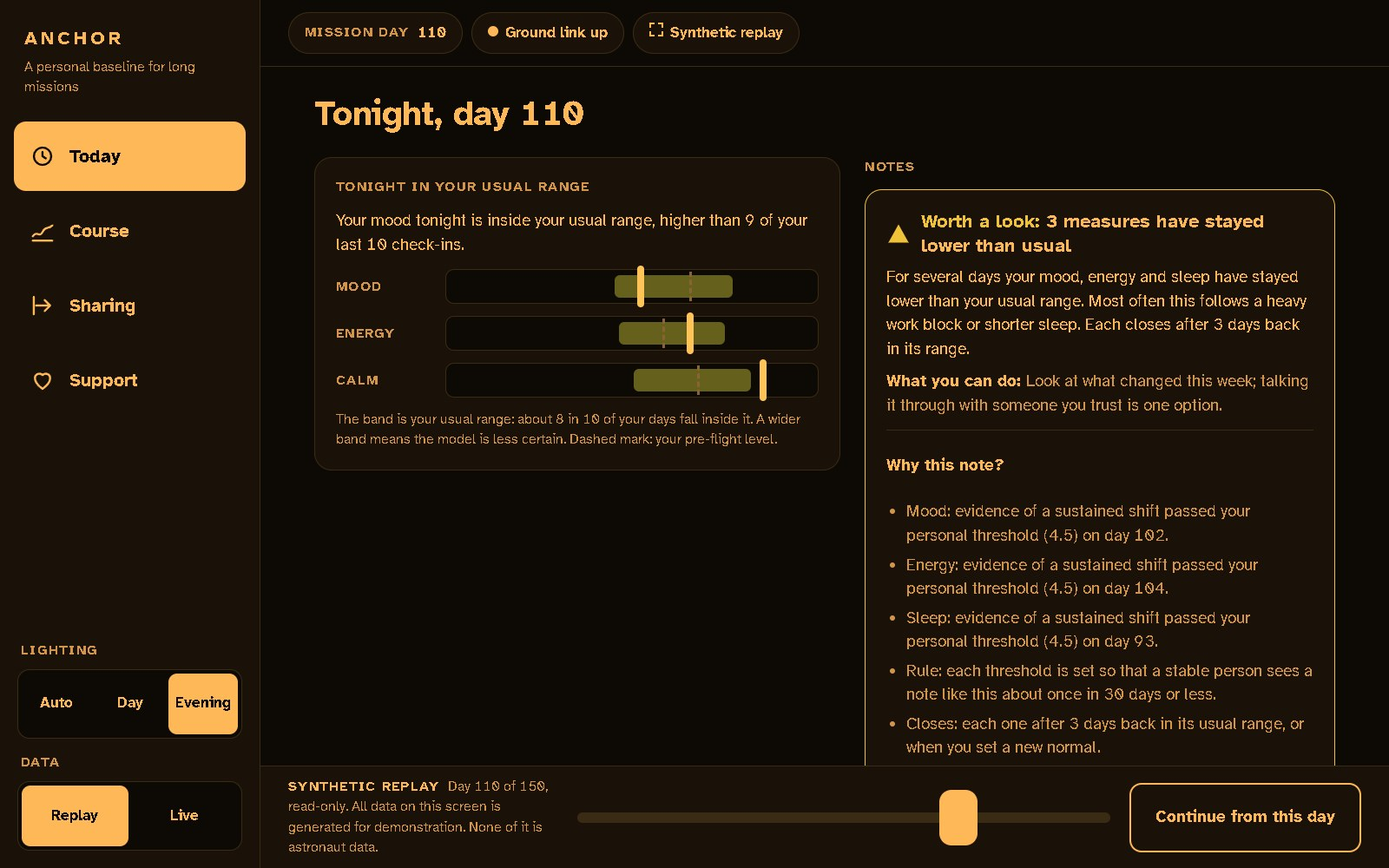
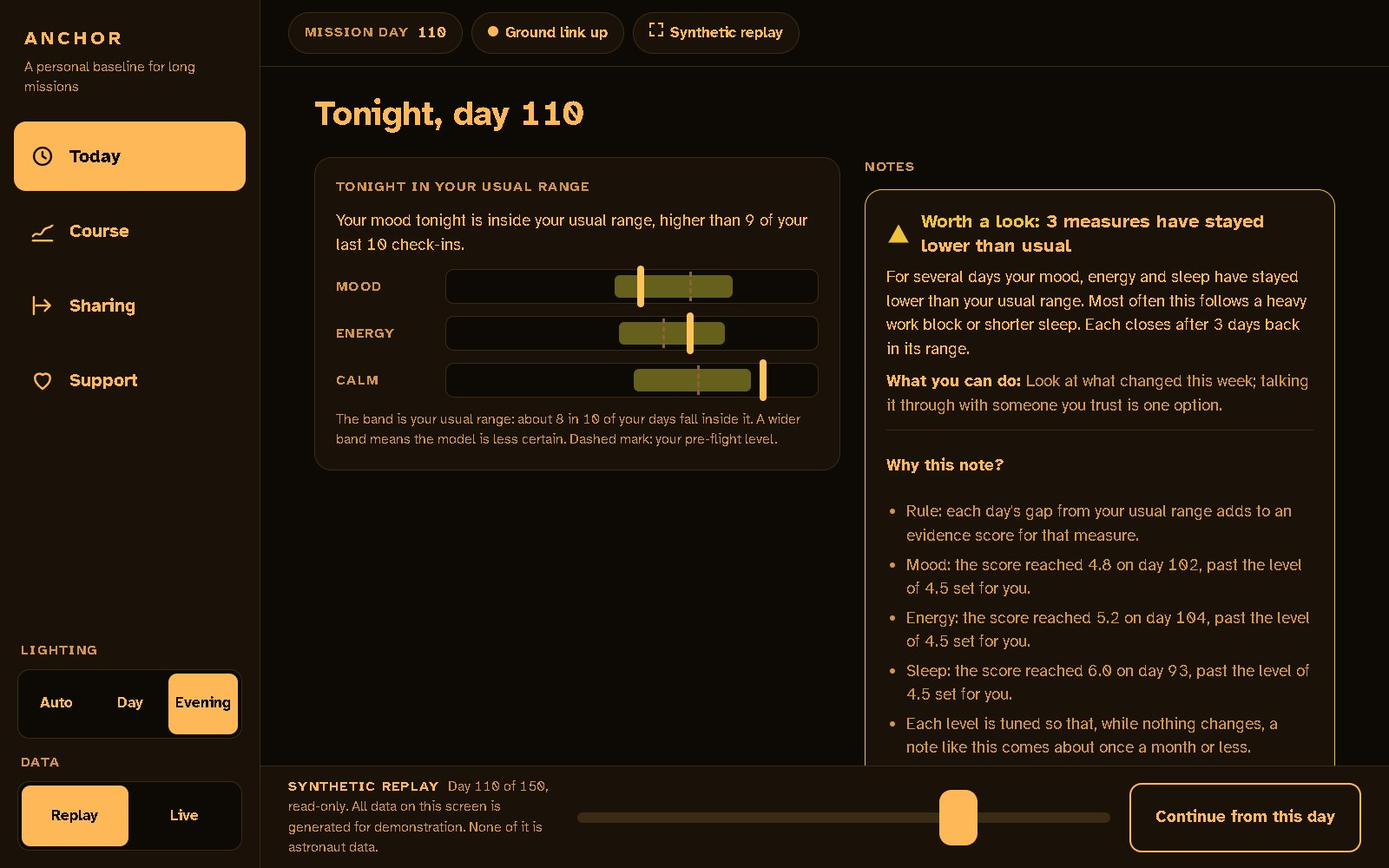
Plain language, measured: readability test, de-jargoned explanations, right time words
- "Why this note?" no longer shows bare thresholds or "1 % level" / "pre-flight
  spreads": it says the evidence score reached X, past the level Y set for you,
  and that the level is tuned to about one note a month while nothing changes.
- Safety and optional-reading messages no longer say "tonight" for morning or
  any-time measurements.
- New audit test: every sentence the astronaut can read in the demo, including
  every explanation line, has a mean Flesch-Kincaid grade <= 6 (now 4.6) and a
  90th percentile <= 9.
- Course: y-axis unit (HIG charts.md); the label band is reserved only when
  there is something to label.
- HRP_MAPPING: immune paraphrase restored after checking it against NASA's page.

Changed region(s): [[0.6562, 0.589, 0.9375, 0.868]]

diff --git a/app/src/views.ts b/app/src/views.ts
@@ -114,32 +114,33 @@ function why(c: Catalogue, st: State, n: Note, s: Slots): Why | undefined {
       return base([
         `Data: your ${lab} reading of ${s.value} on day ${o.day}.`,
         l && i ? `Rule: a line you agreed before flight (${l.op} ${fmt(c, i, l.limit)}). It does not depend on your usual range.` : "Rule: a line you agreed before flight.",
-        "Check: two independently written safety checks evaluate every value; if they ever disagree, the value is treated as unconfirmed.",
+        "Check: two separately written safety programs test every value. If they ever disagree, the value is marked unconfirmed.",
       ]);
     }
     case "SafetyCheckFailed":
-      return base(["Rule: two independently written safety checks evaluate every value.", "When they disagree, the value is treated as unconfirmed and, outside the optional questions, shared as such."], "support");
+      return base(["Rule: two separately written safety programs test every value.", "When they disagree, the value is marked unconfirmed and, outside the optional questions, shared as such."], "support");
     case "Alarm": {
       const i = st.indicators.get(o.indicator);
       const days = i ? i.stats.filter((d) => d.day > o.day - 14 && d.day <= o.day).length : 0;
       return base([
         `Data: your daily ${lab} on ${days} of the 14 days up to day ${o.day}, each compared with your usual range at the time.`,
-        `Rule: evidence of a sustained shift built up past your personal threshold (${o.h.toFixed(1)}). The threshold is set so that a stable person sees a note like this about once in 30 days or less.`,
+        `Rule: each day's gap from your usual range adds to an evidence score. It reached ${o.statistic.toFixed(1)} on day ${o.day}, past the level of ${o.h.toFixed(1)} set for you.`,
+        "That level is tuned so that, while nothing changes, a note like this comes about once a month or less.",
         "Closes: after 3 days back in your usual range, or when you set a new normal.",
       ]);
     }
     case "AlarmCleared":
-      return base(["Rule: the evidence returned to zero and stayed there for 3 days."]);
+      return base(["Rule: the evidence score fell back to zero and stayed there for 3 days."]);
     case "DriftPrompt":
-      return base([`Data: your ${lab} over the last ${o.n} days.`, "Rule: the median day-to-day trend is clear at the 1 % level after allowing for carry-over from one day to the next.", "A drift is a question for you, not a finding."]);
+      return base([`Data: your ${lab} over the last ${o.n} days.`, "Rule: the trend is steady enough that chance alone would produce it less than once in 100 times, even allowing for each day resembling the one before.", "A drift is a question for you, not a finding."]);
     case "AnchorRunPrompt":
-      return base(["Rule: your average over the last 14 days sits more than one pre-flight spread away from your pre-flight level.", "Setting a new normal is your choice and can be undone."]);
+      return base(["Rule: your average over the last 14 days is further from your pre-flight level than your usual day-to-day variation before flight.", "Setting a new normal is your choice and can be undone."]);
     case "MissingnessAlarm":
       return base(["Rule: the share of days without a check-in rose above your own usual rate.", "Days you tagged as heavy workload are not counted."], "support");
     case "OfferExtraSample":
-      return base(["Rule: evidence passed half of your threshold today, and for you a second reading adds enough to be worth asking."]);
+      return base(["Rule: your evidence score passed half of your level today, and for you a second reading adds enough to be worth asking."]);
     case "Reanchored":
-      return base(["Rule: a new normal can be set once a change has lasted 14 days, at most once every 30 days, and only within two pre-flight spreads of your pre-flight level.", "It is recorded in your log and can be undone."]);
+      return base(["Rule: a new normal can be set once a change has lasted 14 days, at most once every 30 days, and only within twice your usual pre-flight variation.", "It is recorded in your log and can be undone."]);
     case "PrivateSupport":
       return base(["Rule: any yes offers your plan and two ways to reach a person.", "Your answers stay on this tablet unless you agreed otherwise before flight."], "crew");
     default:
@@ -149,13 +150,14 @@ function why(c: Catalogue, st: State, n: Note, s: Slots): Why | undefined {
 
 // ---------- Today ----------
 
-function grouped(c: Catalogue, alarms: { i: Indicator; m: Msg; h: number }[]): Msg {
+function grouped(c: Catalogue, alarms: { i: Indicator; m: Msg; h: number; stat: number }[]): Msg {
   const m = c.group(alarms.map((a) => ({ ind: a.i.key, since: a.i.alarmDay!, dir: a.i.dir })));
   // Every NASA research area the grouped measures belong to, each once.
   const areas = [...new Map(alarms.map((a) => c.area[a.i.key]).filter((a) => a !== undefined).map((a) => [a.url, a])).values()];
   const lines = [
-    ...alarms.map((a) => `${cap(label(c, a.i.key))}: evidence of a sustained shift passed your personal threshold (${a.h.toFixed(1)}) on day ${a.i.alarmDay}.`),
-    "Rule: each threshold is set so that a stable person sees a note like this about once in 30 days or less.",
+    "Rule: each day's gap from your usual range adds to an evidence score for that measure.",
+    ...alarms.map((a) => `${cap(label(c, a.i.key))}: the score reached ${a.stat.toFixed(1)} on day ${a.i.alarmDay}, past the level of ${a.h.toFixed(1)} set for you.`),
+    "Each level is tuned so that, while nothing changes, a note like this comes about once a month or less.",
     "Closes: each one after 3 days back in its usual range, or when you set a new normal.",
   ];
   const [area, ...also] = areas;
@@ -258,12 +260,12 @@ export function today(x: Ctx): HTMLElement {
   }
   // Open states first (one note per episode), then this day's notes.
   const open: Msg[] = [];
-  const alarms: { i: Indicator; m: Msg; h: number }[] = [];
+  const alarms: { i: Indicator; m: Msg; h: number; stat: number }[] = [];
   for (const i of st.indicators.values()) {
     if (i.alarmDay === null) continue;
     const n = [...st.notes].reverse().find((z) => z.out.t === "Alarm" && "indicator" in z.out && z.out.indicator === i.key);
     const m = n && message(c, st, n);
-    if (m && n.out.t === "Alarm") alarms.push({ i, m, h: n.out.h });
+    if (m && n.out.t === "Alarm") alarms.push({ i, m, h: n.out.h, stat: n.out.statistic });
   }
   if (alarms.length === 1) open.push({ ...alarms[0]!.m, title: `${alarms[0]!.m.title} (since day ${alarms[0]!.i.alarmDay})` });
   else if (alarms.length > 1) open.push(grouped(c, alarms));
@@ -396,7 +398,9 @@ export function episodes(st: State, key: string, upto: number): { from: number; 
 
 function corridorChart(c: Catalogue, st: State, i: Indicator, g: Geo): SVGElement {
   // Top band: episode boxes (y 6-32), two label lanes (y 54, 76), the hinge-label row (y 88-114), then the plot.
-  const H = 440, top = 122, bottom = H - 30;
+  // The label band is reserved only when there is something to label; otherwise the plot takes the space.
+  const labelled = episodes(st, i.key, g.upto).length > 0 || i.hinges.some((hg) => hg.day <= g.upto);
+  const H = 440, top = labelled ? 122 : 48, bottom = H - 30;
   const pts = i.stats.map((d) => ({ day: d.day, y: statShown(i, d.y), lo: statShown(i, d.lo), hi: statShown(i, d.hi), a: statShown(i, d.anchor) }));
   const line = st.table?.lines.find((l) => l.indicator === i.key && !l.high);
   const limit = line ? shown(i, line.limit) : null;
@@ -414,6 +418,9 @@ function corridorChart(c: Catalogue, st: State, i: Indicator, g: Geo): SVGElemen
     svg.append(s("line", { x1: g.padL, x2: g.W - g.padR, y1: y(t), y2: y(t), class: "contour" }));
     svg.append(s("text", { x: g.padL - 10, y: y(t) + 6, class: "axis", "text-anchor": "end" }, `${+t.toFixed(2)}`));
   }
+  // The axis says what its numbers are (HIG charts.md: describe units where the chart can show them).
+  const unit = i.slider ? "0–100" : (c.indicator[i.key]?.unit ?? "");
+  if (unit) svg.append(s("text", { x: g.padL - 10, y: top - 14, class: "axis axis--unit", "text-anchor": "end" }, unit));
   // Sustained-change episodes: a caution bar over the days they cover, and one label per episode,
   // starting at its triangle (shape + words, R2). Two label lanes keep neighbours apart.
   const laneEnd = [-Infinity, -Infinity];

diff --git a/app/dist/app/src/views.js b/app/dist/app/src/views.js
@@ -75,32 +75,33 @@ function why(c, st, n, s) {
             return base([
                 `Data: your ${lab} reading of ${s.value} on day ${o.day}.`,
                 l && i ? `Rule: a line you agreed before flight (${l.op} ${fmt(c, i, l.limit)}). It does not depend on your usual range.` : "Rule: a line you agreed before flight.",
-                "Check: two independently written safety checks evaluate every value; if they ever disagree, the value is treated as unconfirmed.",
+                "Check: two separately written safety programs test every value. If they ever disagree, the value is marked unconfirmed.",
             ]);
         }
         case "SafetyCheckFailed":
-            return base(["Rule: two independently written safety checks evaluate every value.", "When they disagree, the value is treated as unconfirmed and, outside the optional questions, shared as such."], "support");
+            return base(["Rule: two separately written safety programs test every value.", "When they disagree, the value is marked unconfirmed and, outside the optional questions, shared as such."], "support");
         case "Alarm": {
             const i = st.indicators.get(o.indicator);
             const days = i ? i.stats.filter((d) => d.day > o.day - 14 && d.day <= o.day).length : 0;
             return base([
                 `Data: your daily ${lab} on ${days} of the 14 days up to day ${o.day}, each compared with your usual range at the time.`,
-                `Rule: evidence of a sustained shift built up past your personal threshold (${o.h.toFixed(1)}). The threshold is set so that a stable person sees a note like this about once in 30 days or less.`,
+                `Rule: each day's gap from your usual range adds to an evidence score. It reached ${o.statistic.toFixed(1)} on day ${o.day}, past the level of ${o.h.toFixed(1)} set for you.`,
+                "That level is tuned so that, while nothing changes, a note like this comes about once a month or less.",
                 "Closes: after 3 days back in your usual range, or when you set a new normal.",
             ]);
         }
         case "AlarmCleared":
-            return base(["Rule: the evidence returned to zero and stayed there for 3 days."]);
+            return base(["Rule: the evidence score fell back to zero and stayed there for 3 days."]);
         case "DriftPrompt":
-            return base([`Data: your ${lab} over the last ${o.n} days.`, "Rule: the median day-to-day trend is clear at the 1 % level after allowing for carry-over from one day to the next.", "A drift is a question for you, not a finding."]);
+            return base([`Data: your ${lab} over the last ${o.n} days.`, "Rule: the trend is steady enough that chance alone would produce it less than once in 100 times, even allowing for each day resembling the one before.", "A drift is a question for you, not a finding."]);
         case "AnchorRunPrompt":
-            return base(["Rule: your average over the last 14 days sits more than one pre-flight spread away from your pre-flight level.", "Setting a new normal is your choice and can be undone."]);
+            return base(["Rule: your average over the last 14 days is further from your pre-flight level than your usual day-to-day variation before flight.", "Setting a new normal is your choice and can be undone."]);
         case "MissingnessAlarm":
             return base(["Rule: the share of days without a check-in rose above your own usual rate.", "Days you tagged as heavy workload are not counted."], "support");
         case "OfferExtraSample":
-            return base(["Rule: evidence passed half of your threshold today, and for you a second reading adds enough to be worth asking."]);
+            return base(["Rule: your evidence score passed half of your level today, and for you a second reading adds enough to be worth asking."]);
         case "Reanchored":
-            return base(["Rule: a new normal can be set once a change has lasted 14 days, at most once every 30 days, and only within two pre-flight spreads of your pre-flight level.", "It is recorded in your log and can be undone."]);
+            return base(["Rule: a new normal can be set once a change has lasted 14 days, at most once every 30 days, and only within twice your usual pre-flight variation.", "It is recorded in your log and can be undone."]);
         case "PrivateSupport":
             return base(["Rule: any yes offers your plan and two ways to reach a person.", "Your answers stay on this tablet unless you agreed otherwise before flight."], "crew");
         default:
@@ -113,8 +114,9 @@ function grouped(c, alarms) {
     // Every NASA research area the grouped measures belong to, each once.
     const areas = [...new Map(alarms.map((a) => c.area[a.i.key]).filter((a) => a !== undefined).map((a) => [a.url, a])).values()];
     const lines = [
-        ...alarms.map((a) => `${cap(label(c, a.i.key))}: evidence of a sustained shift passed your personal threshold (${a.h.toFixed(1)}) on day ${a.i.alarmDay}.`),
-        "Rule: each threshold is set so that a stable person sees a note like this about once in 30 days or less.",
+        "Rule: each day's gap from your usual range adds to an evidence score for that measure.",
+        ...alarms.map((a) => `${cap(label(c, a.i.key))}: the score reached ${a.stat.toFixed(1)} on day ${a.i.alarmDay}, past the level of ${a.h.toFixed(1)} set for you.`),
+        "Each level is tuned so that, while nothing changes, a note like this comes about once a month or less.",
         "Closes: each one after 3 days back in its usual range, or when you set a new normal.",
     ];
     const [area, ...also] = areas;
@@ -208,7 +210,7 @@ export function today(x) {
         const n = [...st.notes].reverse().find((z) => z.out.t === "Alarm" && "indicator" in z.out && z.out.indicator === i.key);
         const m = n && message(c, st, n);
         if (m && n.out.t === "Alarm")
-            alarms.push({ i, m, h: n.out.h });
+            alarms.push({ i, m, h: n.out.h, stat: n.out.statistic });
     }
     if (alarms.length === 1)
         open.push({ ...alarms[0].m, title: `${alarms[0].m.title} (since day ${alarms[0].i.alarmDay})` });
@@ -310,7 +312,9 @@ export function episodes(st, key, upto) {
 }
 function corridorChart(c, st, i, g) {
     // Top band: episode boxes (y 6-32), two label lanes (y 54, 76), the hinge-label row (y 88-114), then the plot.
-    const H = 440, top = 122, bottom = H - 30;
+    // The label band is reserved only when there is something to label; otherwise the plot takes the space.
+    const labelled = episodes(st, i.key, g.upto).length > 0 || i.hinges.some((hg) => hg.day <= g.upto);
+    const H = 440, top = labelled ? 122 : 48, bottom = H - 30;
     const pts = i.stats.map((d) => ({ day: d.day, y: statShown(i, d.y), lo: statShown(i, d.lo), hi: statShown(i, d.hi), a: statShown(i, d.anchor) }));
     const line = st.table?.lines.find((l) => l.indicator === i.key && !l.high);
     const limit = line ? shown(i, line.limit) : null;
@@ -329,6 +333,10 @@ function corridorChart(c, st, i, g) {
         svg.append(s("line", { x1: g.padL, x2: g.W - g.padR, y1: y(t), y2: y(t), class: "contour" }));
         svg.append(s("text", { x: g.padL - 10, y: y(t) + 6, class: "axis", "text-anchor": "end" }, `${+t.toFixed(2)}`));
     }
+    // The axis says what its numbers are (HIG charts.md: describe units where the chart can show them).
+    const unit = i.slider ? "0–100" : (c.indicator[i.key]?.unit ?? "");
+    if (unit)
+        svg.append(s("text", { x: g.padL - 10, y: top - 14, class: "axis axis--unit", "text-anchor": "end" }, unit));
     // Sustained-change episodes: a caution bar over the days they cover, and one label per episode,
     // starting at its triangle (shape + words, R2). Two label lanes keep neighbours apart.
     const laneEnd = [-Infinity, -Infinity];

diff --git a/app/dist/app/src/catalogue.js b/app/dist/app/src/catalogue.js
@@ -46,7 +46,7 @@ const UI_EN = {
     vitalsHint: "Measured with the station's medical kit. Set the ones you took today; each is checked against your safety lines as soon as it is saved.",
     lastReading: "Last reading: tap the value to keep it",
     saveVitals: "Save measurements",
-    kernelAgree: "Independent safety check: both versions agreed on every value shown",
+    kernelAgree: "Safety check: two separately written versions agreed on every value",
 };
 const cap = (x) => `${x[0].toUpperCase()}${x.slice(1)}`;
 const label = (s) => en.indicator[s.ind]?.label ?? s.ind.replace(/_/g, " ");
@@ -170,7 +170,7 @@ export const en = {
             : {
                 register: "warning",
                 title: `${label(s)} past your safety line`,
-                text: `Tonight's ${label(s)} of ${s.value} is past the line you agreed before flight. ${who(s.to)[0].toUpperCase()}${who(s.to).slice(1)} has the reading.`,
+                text: `Your ${label(s)} reading of ${s.value} is past the line you agreed before flight. ${who(s.to)[0].toUpperCase()}${who(s.to).slice(1)} has the reading.`,
                 action: `measure your ${label(s)} again now`,
                 owner: "You",
             },
@@ -199,7 +199,7 @@ export const en = {
         OfferExtraSample: (s) => ({
             register: "advisory",
             title: "One more reading, if you like",
-            text: `One more ${label(s)} reading later today would make tonight's picture clearer. It is optional.`,
+            text: `One more ${label(s)} reading later today would make today's picture clearer. It is optional.`,
             action: `add a short ${label(s)} reading later today, or let it go`,
             owner: "You",
         }),
@@ -264,8 +264,8 @@ export const en = {
         }),
         CompanionError: () => ({
             register: "caution",
-            title: "Part of tonight's analysis did not run",
-            text: "Part of tonight's analysis could not run, so no new note was made. Your entries are stored safely, and the safety check ran as usual.",
+            title: "Part of today's analysis did not run",
+            text: "Part of today's analysis could not run, so no new note was made. Your entries are stored safely, and the safety check ran as usual.",
             action: "look at the technical record when convenient",
             owner: "The CMO on board",
         }),

diff --git a/app/src/catalogue.ts b/app/src/catalogue.ts
@@ -69,7 +69,7 @@ const UI_EN = {
   vitalsHint: "Measured with the station's medical kit. Set the ones you took today; each is checked against your safety lines as soon as it is saved.",
   lastReading: "Last reading: tap the value to keep it",
   saveVitals: "Save measurements",
-  kernelAgree: "Independent safety check: both versions agreed on every value shown",
+  kernelAgree: "Safety check: two separately written versions agreed on every value",
 };
 
 type Template = (s: Slots) => Msg;
@@ -223,7 +223,7 @@ export const en: Catalogue = {
         : {
             register: "warning",
             title: `${label(s)} past your safety line`,
-            text: `Tonight's ${label(s)} of ${s.value} is past the line you agreed before flight. ${who(s.to)[0]!.toUpperCase()}${who(s.to).slice(1)} has the reading.`,
+            text: `Your ${label(s)} reading of ${s.value} is past the line you agreed before flight. ${who(s.to)[0]!.toUpperCase()}${who(s.to).slice(1)} has the reading.`,
             action: `measure your ${label(s)} again now`,
             owner: "You",
           },
@@ -253,7 +253,7 @@ export const en: Catalogue = {
     OfferExtraSample: (s) => ({
       register: "advisory",
       title: "One more reading, if you like",
-      text: `One more ${label(s)} reading later today would make tonight's picture clearer. It is optional.`,
+      text: `One more ${label(s)} reading later today would make today's picture clearer. It is optional.`,
       action: `add a short ${label(s)} reading later today, or let it go`,
       owner: "You",
     }),
@@ -318,8 +318,8 @@ export const en: Catalogue = {
     }),
     CompanionError: () => ({
       register: "caution",
-      title: "Part of tonight's analysis did not run",
-      text: "Part of tonight's analysis could not run, so no new note was made. Your entries are stored safely, and the safety check ran as usual.",
+      title: "Part of today's analysis did not run",
+      text: "Part of today's analysis could not run, so no new note was made. Your entries are stored safely, and the safety check ran as usual.",
       action: "look at the technical record when convenient",
       owner: "The CMO on board",
     }),

diff --git a/app/test/audit.test.ts b/app/test/audit.test.ts
@@ -144,3 +144,30 @@ test("the prebuilt demo events equal a fresh engine run (I5; scripts/build-demo.
   assert.ok(r.ok);
   assert.deepEqual(pre, JSON.parse(JSON.stringify(r.events)));
 });
+
+/** Plain language (HIG writing; Flesch–Kincaid, app/test/readability.ts): everything the astronaut
+ *  reads in the demo, including every "Why this note?" line, stays easy to read. */
+test("astronaut-facing text stays plain: mean reading grade <= 6, 90th percentile <= 9", async () => {
+  const { catalogues: cats } = await import("../src/catalogue.ts");
+  const { project } = await import("../src/model.ts");
+  const { message } = await import("../src/views.ts");
+  const { grade } = await import("./readability.ts");
+  const c = cats.en!;
+  const ev = JSON.parse(readFileSync(new URL("../demo-events.json", import.meta.url), "utf8"));
+  const seen = new Set<string>();
+  const add = (s: string) => { for (const x of s.split(/(?<=[.;])\s+/)) if (x.split(" ").length > 3) seen.add(x); };
+  for (const day of [30, 60, 80, 102, 110, 122, 125, 131, 150]) {
+    const st = project(ev.slice(0, prefixEnd(ev, day)));
+    for (const n of st.notes) {
+      const m = message(c, st, n);
+      if (m) [m.text, m.action, ...(m.why?.lines ?? [])].forEach(add);
+    }
+  }
+  Object.values(c.ui).forEach(add);
+  Object.values(c.about).forEach((a) => [a.how, a.space, a.helps].forEach(add));
+  const g = [...seen].map(grade).sort((a, b) => a - b);
+  const mean = g.reduce((s, x) => s + x, 0) / g.length;
+  assert.ok(g.length > 120, `measured ${g.length}`);
+  assert.ok(mean <= 6, `mean grade ${mean.toFixed(1)}`);
+  assert.ok(g[Math.floor(g.length * 0.9)]! <= 9, `90th percentile ${g[Math.floor(g.length * 0.9)]!.toFixed(1)}`);
+});

diff --git a/app/test/readability.ts b/app/test/readability.ts
@@ -1,0 +1,18 @@
+// Flesch–Kincaid grade level (Kincaid et al. 1975), used by the audit tests to keep astronaut-facing
+// text plain. Syllables are counted by vowel groups with the usual silent-e correction; this is the
+// standard approximation and is accurate to about one grade on English prose.
+export function syllables(word: string): number {
+  const w = word.toLowerCase().replace(/[^a-z]/g, "");
+  if (!w) return 0;
+  if (w.length <= 3) return 1;
+  const groups = w.replace(/(?:[^laeiouy]es|ed|[^laeiouy]e)$/, "").replace(/^y/, "").match(/[aeiouy]{1,2}/g);
+  return Math.max(1, groups?.length ?? 1);
+}
+
+export function grade(text: string): number {
+  const sentences = text.split(/[.!?;:]+(?:\s|$)/).filter((s) => /[a-z]/i.test(s));
+  const words = text.split(/\s+/).filter((w) => /[a-z]/i.test(w));
+  if (!words.length || !sentences.length) return 0;
+  const syl = words.reduce((n, w) => n + syllables(w), 0);
+  return 0.39 * (words.length / sentences.length) + 11.8 * (syl / words.length) - 15.59;
+}

diff --git a/app/sw.js b/app/sw.js
@@ -1,6 +1,6 @@
 // Generated by app/scripts/build-sw.ts; do not edit.
 // Cache-first for the app's own files, so ANCHOR opens and runs with no network (N1).
-const CACHE = "anchor-a0634cdb38c8";
+const CACHE = "anchor-c1f0c7499819";
 const FILES = ["./","anchor.wasm","demo-events.json","dist/app/src/catalogue.js","dist/app/src/main.js","dist/app/src/model.js","dist/app/src/tokens.js","dist/app/src/ui.js","dist/app/src/views.js","dist/app/src/wasm.js","dist/kernel-b/src/kernel.js","fonts/AtkinsonHyperlegible-Bold.woff2","fonts/AtkinsonHyperlegible-Regular.woff2","icons/apple-touch-icon.png","icons/icon-192.png","icons/icon-512.png","icons/icon-maskable-512.png","icons/icon.svg","index.html","manifest.webmanifest","styles.css"];
 self.addEventListener("install", (e) => e.waitUntil(caches.open(CACHE).then((c) => c.addAll(FILES)).then(() => self.skipWaiting())));
 self.addEventListener("activate", (e) => e.waitUntil(caches.keys()

diff --git a/docs/HRP_MAPPING.md b/docs/HRP_MAPPING.md
@@ -14,7 +14,7 @@ The challenge's Resources tab lists three NASA resources: HRP *5 Hazards of Huma
 | **Risk of Inadequate Teamwork** ("in-mission performance and behavioral health decrements due to inadequate cooperation, coordination, communication, and psychosocial adaptation within a team") [H4] | Mars missions add communication delays, more isolation and smaller habitats, and crews must work through conflicts themselves. | **Crew route.** A one-tap request to talk with a trusted crewmate (`crew_request`).<br>**Exclusions.** The astronaut may exclude any recipient, including the CMO when the CMO is the person concerned (I10).<br>**No crew-level mood view.** It was rejected because with 4–6 crew any aggregate re-identifies individuals (DESIGN_PAPER §4.9). |
 | **Risk of Inadequate Systems Operations Support** ("adverse mission outcomes due to Earth independent human-systems operation") [H5] | Crews far from Earth must run systems without real-time support from mission control, so systems must be easy to operate independently. | **Explainable notes.** Every note answers "Why this note?": the data, the rule, the confidence, what would close it, and the NASA research area.<br>**Determinism.** Deterministic templates rather than generated text (ADR-0009 §8).<br>**Reproducibility.** Replayable, hash-chained logs (ADR-0002).<br>**Interface standards.** NASA-STD-3001 Appendix F display rules: reserved colours, contrast of at least 6:1, large touch targets for microgravity (UI_RESEARCH R1–R9). |
 | **Risk of Cardiovascular Adaptations** ("cardiovascular adaptations contributing to adverse mission performance and health outcomes") [H6] | Spaceflight changes the heart and vessels. Contributing factors listed include length of exposure, reduced physical activity, impaired sleep, psychological stress and immune dysregulation, which ties this risk to the behavioural and sleep risks above. | **Indicators.** Morning `pulse_bpm` and `sbp_mmhg` from the on-board cuff, entered with large steppers.<br>**Safety line.** Systolic pressure above 160 mmHg shares to the flight surgeon. Below the line, a sustained rise is a personal note, never a single-reading alert (ADR-0011). |
-| **Risk of Altered Immune System Responses** (Roadmap: "in-mission impacts, adverse health events or long-term health impacts due to altered immune response") [H7] | Spaceflight alters immune response; the risk is under active HRP research and is linked to the food and cardiovascular risks. | **Indicator.** Morning `temp_c`.<br>**Safety line.** Above 38.0 °C shares to the flight surgeon on the first reading. The demo mission shows a one-morning fever on day 80 that reaches the surgeon and, by design, opens no "several days" note (ADR-0011). |
+| **Risk of Altered Immune System Responses** (Roadmap: "in-mission impacts, adverse health events or long-term health impacts due to altered immune response") [H7] | Radiation, microgravity, poor sleep and other stressors can alter astronauts' immune systems and awaken dormant viruses, such as those that cause cold sores. | **Indicator.** Morning `temp_c`.<br>**Safety line.** Above 38.0 °C shares to the flight surgeon on the first reading. The demo mission shows a one-morning fever on day 80 that reaches the surgeon and, by design, opens no "several days" note (ADR-0011). |
 | **Risk of Inadequate Food and Nutrition** ("performance decrement and crew illness due to inadequate food and nutrition") [H8] | Inadequate energy and nutrient intake can dysregulate other systems, including immune and cardiovascular function. | **Indicator.** Fasting `glucose_mgdl`, every third morning (a finger-stick, so not daily).<br>**Safety line.** Below 70 mg/dL shares to the flight surgeon. A sustained fall is a personal note. |
 
 ## Other NASA sources used in the design
